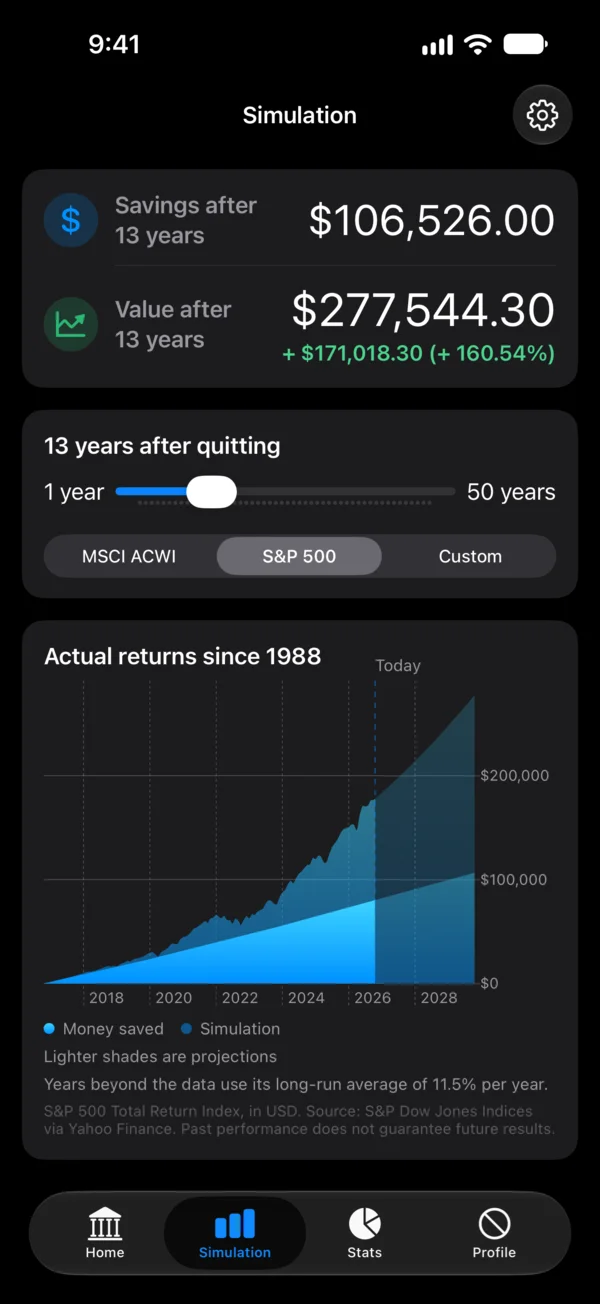
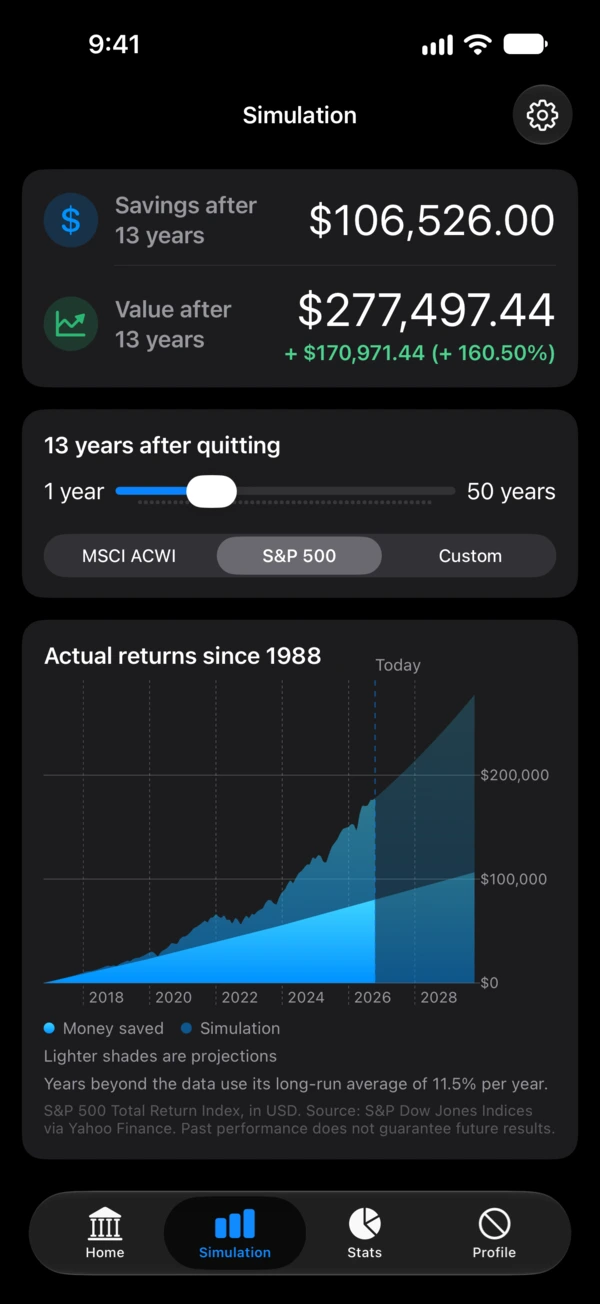
禁煙積立バンクの紹介ページに統計画面のスクリーンショットを追加する
アプリの掲載用スクリーンショットに統計タブを加えたため、紹介ページにも同じ画像を並べる。
タブの並びに合わせて統計を 3 枚目に置き、プロフィールの画像は 04 に改名する。
撮影日をそろえるため、ほかの画像も同じ日に撮り直したものに差し替える。
4 枚並びは幅の狭い画面で小さくなりすぎるため、900px 以下では 2 列にする。

diff --git a/no-smoking-bank/index.html b/no-smoking-bank/index.html
@@ -104,12 +104,15 @@
 
   /* shots */
   .shots {
-    display: grid; grid-template-columns: repeat(3, 1fr);
+    display: grid; grid-template-columns: repeat(4, 1fr);
     gap: 22px; padding: 56px 0 8px;
   }
   .shots img {
     width: 100%; height: auto; display: block;
     border: 1px solid var(--line); border-radius: 22px;
+  }
+  @media (max-width: 900px) {
+    .shots { grid-template-columns: repeat(2, 1fr); max-width: 560px; margin: 0 auto; }
   }
   @media (max-width: 700px) {
     .shots { grid-template-columns: 1fr; max-width: 320px; margin: 0 auto; gap: 32px; }
@@ -183,10 +186,12 @@
   <section class="wrap shots">
     <img class="ja" src="./img/ja-01-home.webp" width="600" height="1304" loading="lazy" alt="ホーム画面。禁煙できた日数・本数・節約できたお金と、投資シミュレーションを重ねた累積の面グラフ。">
     <img class="ja" src="./img/ja-02-simulation.webp" width="600" height="1304" loading="lazy" alt="シミュレーション画面。期間のスライダーと指数の選択、将来の節約額と評価額。">
-    <img class="ja" src="./img/ja-03-profile.webp" width="600" height="1304" loading="lazy" alt="禁煙プロフィール画面。開始日・本数・価格・価格改定の登録。">
+    <img class="ja" src="./img/ja-03-stats.webp" width="600" height="1304" loading="lazy" alt="統計画面。次の目標までの日数と金額、投資評価額の元本と運用益の内訳、年別の節約額。">
+    <img class="ja" src="./img/ja-04-profile.webp" width="600" height="1304" loading="lazy" alt="禁煙プロフィール画面。開始日・本数・価格・価格改定の登録。">
     <img class="en" src="./img/en-01-home.webp" width="600" height="1304" loading="lazy" alt="Home screen with smoke-free days, cigarettes skipped, money saved and the cumulative chart with the investment simulation overlaid.">
     <img class="en" src="./img/en-02-simulation.webp" width="600" height="1304" loading="lazy" alt="Simulation screen with a time horizon slider, an index picker, and projected savings and portfolio value.">
-    <img class="en" src="./img/en-03-profile.webp" width="600" height="1304" loading="lazy" alt="Profile screen for the quit date, cigarettes per day, pack price and price increases.">
+    <img class="en" src="./img/en-03-stats.webp" width="600" height="1304" loading="lazy" alt="Stats screen with progress toward the next day and money goals, a principal and returns breakdown of the portfolio value, and savings by year.">
+    <img class="en" src="./img/en-04-profile.webp" width="600" height="1304" loading="lazy" alt="Profile screen for the quit date, cigarettes per day, pack price and price increases.">
   </section>
 
   <section class="wrap features">
